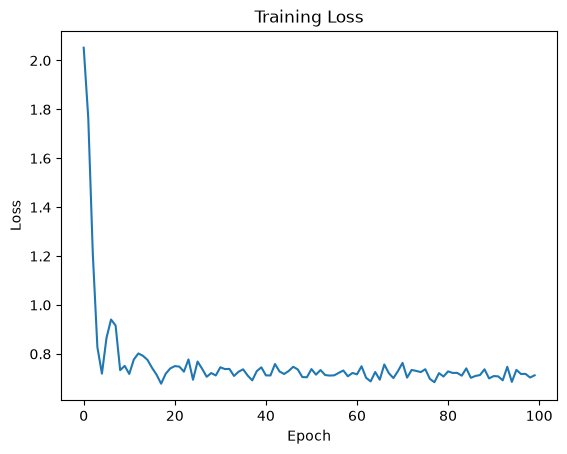
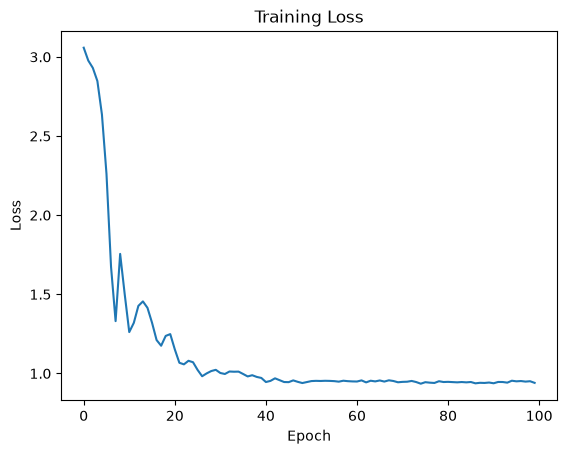
Built site for gh-pages

diff --git a/wiki/works/FPE Dynamic Training/main.html b/wiki/works/FPE Dynamic Training/main.html
@@ -333,10 +333,10 @@ ul.task-list li input[type="checkbox"] {
 </header>
 
 
-<div id="7b469685" class="cell" data-execution_count="17">
+<div id="7b469685" class="cell" data-execution_count="35">
 <div class="cell-output cell-output-display">
 <script type="application/vnd.jupyter.widget-view+json">
-{"model_id":"6ebde6ae401a4b65a6fff83c6a3297f5","version_major":2,"version_minor":0,"quarto_mimetype":"application/vnd.jupyter.widget-view+json"}
+{"model_id":"2ef428ad39d544f9a3ac98429b97cbcf","version_major":2,"version_minor":0,"quarto_mimetype":"application/vnd.jupyter.widget-view+json"}
 </script>
 </div>
 <div class="cell-output cell-output-display">
@@ -347,69 +347,34 @@ ul.task-list li input[type="checkbox"] {
 </div>
 </div>
 <div class="cell-output cell-output-stdout">
-<pre><code>Final loss: 0.7211421728134155</code></pre>
+<pre><code>Final loss: 0.9287362098693848</code></pre>
 </div>
 </div>
-<div id="5934f8f3" class="cell" data-execution_count="18">
-<div class="cell-output cell-output-display">
-<div>
-<figure class="figure">
-<p><img src="main_files/figure-html/cell-5-output-1.png" class="img-fluid figure-img"></p>
-</figure>
-</div>
-</div>
-<div class="cell-output cell-output-display">
-<div>
-<figure class="figure">
-<p><img src="main_files/figure-html/cell-5-output-2.png" class="img-fluid figure-img"></p>
-</figure>
-</div>
-</div>
+<div id="6e753d7f" class="cell" data-execution_count="37">
 <div class="cell-output cell-output-stdout">
-<pre><code>Final loss: 0.7233837246894836
-Best loss: 0.693015456199646</code></pre>
+<pre><code>Empirical mass: 1.0190187692642212
+Normalization constant of objective density: 52.96672821044922</code></pre>
 </div>
 </div>
-<div id="6e753d7f" class="cell" data-execution_count="19">
+<div id="ed24e289" class="cell" data-execution_count="40">
 <div class="cell-output cell-output-stdout">
-<pre><code>Empirical mass: 2.4588189125061035
-Normalization constant of objective density: 1.0</code></pre>
-</div>
-</div>
-<div id="aa36428f" class="cell" data-execution_count="20">
-<div class="cell-output cell-output-display">
-<div>
-<figure class="figure">
-<p><img src="main_files/figure-html/cell-7-output-1.png" class="img-fluid figure-img"></p>
-</figure>
-</div>
-</div>
-</div>
-<div id="b48a8d93" class="cell" data-execution_count="7">
-<div class="cell-output cell-output-error">
-<div class="ansi-escaped-output">
-<pre><span class="ansi-red-fg">---------------------------------------------------------------------------</span>
-<span class="ansi-red-fg">AttributeError</span>                            Traceback (most recent call last)
-<span class="ansi-cyan-fg">Cell</span><span class="ansi-cyan-fg"> </span><span class="ansi-green-fg">In[7]</span><span class="ansi-green-fg">, line 11</span>
-<span class="ansi-green-fg">      7</span>     entropy = torch.mean(PGenerator.log_prob(Psamples)) - torch.log(torch.tensor(Z.item()))
-<span class="ansi-green-fg">      8</span>     KL_divergence = entropy - torch.mean(QGenerator_log_prob(Psamples))
-<span class="ansi-green-fg">      9</span>     <span style="font-weight:bold;color:rgb(0,135,0)">return</span> KL_divergence
-<span class="ansi-green-fg">     10</span> log_p_corrected = <span style="font-weight:bold;color:rgb(0,135,0)">lambda</span> x: torch.log(p_corrected(myNet, x) + <span class="ansi-green-fg">1e-12</span>) <span style="font-style:italic;color:rgb(95,135,135)"># 1e-12 per evitare log(0)</span>
-<span class="ansi-green-fg">---&gt; </span><span class="ansi-green-fg">11</span> print(f"KL divergence: {KL_divergence(PGenerator, log_p_corrected).item()}")
-<span class="ansi-green-fg">     12</span> 
-<span class="ansi-green-fg">     13</span> <span style="font-style:italic;color:rgb(95,135,135)"># 2. JS(p_true | p_corrected) = 0.5 * KL(p_true | m) + 0.5 * KL(p_corrected | m), where m = 0.5 * (p_true + p_corrected)</span>
-<span class="ansi-green-fg">     14</span> m_log_prob = <span style="font-weight:bold;color:rgb(0,135,0)">lambda</span> x: torch.log(<span class="ansi-green-fg">0.5</span> * (p_true(PGenerator, x) + p_corrected(myNet, x)))
-
-<span class="ansi-cyan-fg">Cell</span><span class="ansi-cyan-fg"> </span><span class="ansi-green-fg">In[7]</span><span class="ansi-green-fg">, line 7</span>, in <span class="ansi-cyan-fg">KL_divergence</span><span class="ansi-blue-fg">(PGenerator, QGenerator_log_prob)</span>
-<span class="ansi-green-fg">      4</span> <span style="font-weight:bold;color:rgb(0,135,0)">def</span> KL_divergence(PGenerator, QGenerator_log_prob):
-<span class="ansi-green-fg">      5</span>     Psamples = PGenerator(n_samples=<span class="ansi-green-fg">100000</span>)
-<span class="ansi-green-fg">      6</span>     Z = utils.compute_normalization_constant(PGenerator, Psamples, PGenerator.log_prob(Psamples))
-<span class="ansi-green-fg">----&gt; </span><span class="ansi-green-fg">7</span>     entropy = torch.mean(PGenerator.log_prob(Psamples)) - torch.log(torch.tensor(Z.item()))
-<span class="ansi-green-fg">      8</span>     KL_divergence = entropy - torch.mean(QGenerator_log_prob(Psamples))
-<span class="ansi-green-fg">      9</span>     <span style="font-weight:bold;color:rgb(0,135,0)">return</span> KL_divergence
-
-<span class="ansi-red-fg">AttributeError</span>: 'float' object has no attribute 'item'</pre>
-</div>
+<pre><code>\begin{center}
+\begin{tabular}{ c || c c c c c | c }
+ 5D &amp; Test1 &amp; Test2 &amp; Test3 &amp; Test4 &amp; Test5 &amp; Average \\
+ \hline
+ \hline
+ $\text{Mass}$ &amp; $0.999$ &amp; $0.980$ &amp; $1.024$ &amp; $0.985$ &amp; $1.019$ &amp; $1.001$ \\
+ \hline
+ $L_1$ &amp; $0.313$ &amp; $0.374$ &amp; $0.297$ &amp; $0.363$ &amp; $0.323$ &amp; $0.334$ \\
+ $L_2$ &amp; $0.031$ &amp; $0.037$ &amp; $0.027$ &amp; $0.040$ &amp; $0.029$ &amp; $0.033$ \\
+ $L_\infty$ &amp; $0.029$ &amp; $0.031$ &amp; $0.023$ &amp; $0.037$ &amp; $0.024$ &amp; $0.029$ \\
+ \hline
+ $\text{KL Div}$ &amp; $4.072$ &amp; $3.890$ &amp; $4.085$ &amp; $3.729$ &amp; $4.073$ &amp; $3.970$ \\
+ $\text{JS Div}$ &amp; $1.998$ &amp; $1.888$ &amp; $2.022$ &amp; $1.799$ &amp; $2.014$ &amp; $1.944$ \\
+ \hline
+ $\text{Fisher Div}$ &amp; $22.073$ &amp; $24.788$ &amp; $22.633$ &amp; $25.593$ &amp; $21.936$ &amp; $23.405$
+\end{tabular}
+\end{center}</code></pre>
 </div>
 </div>
 
